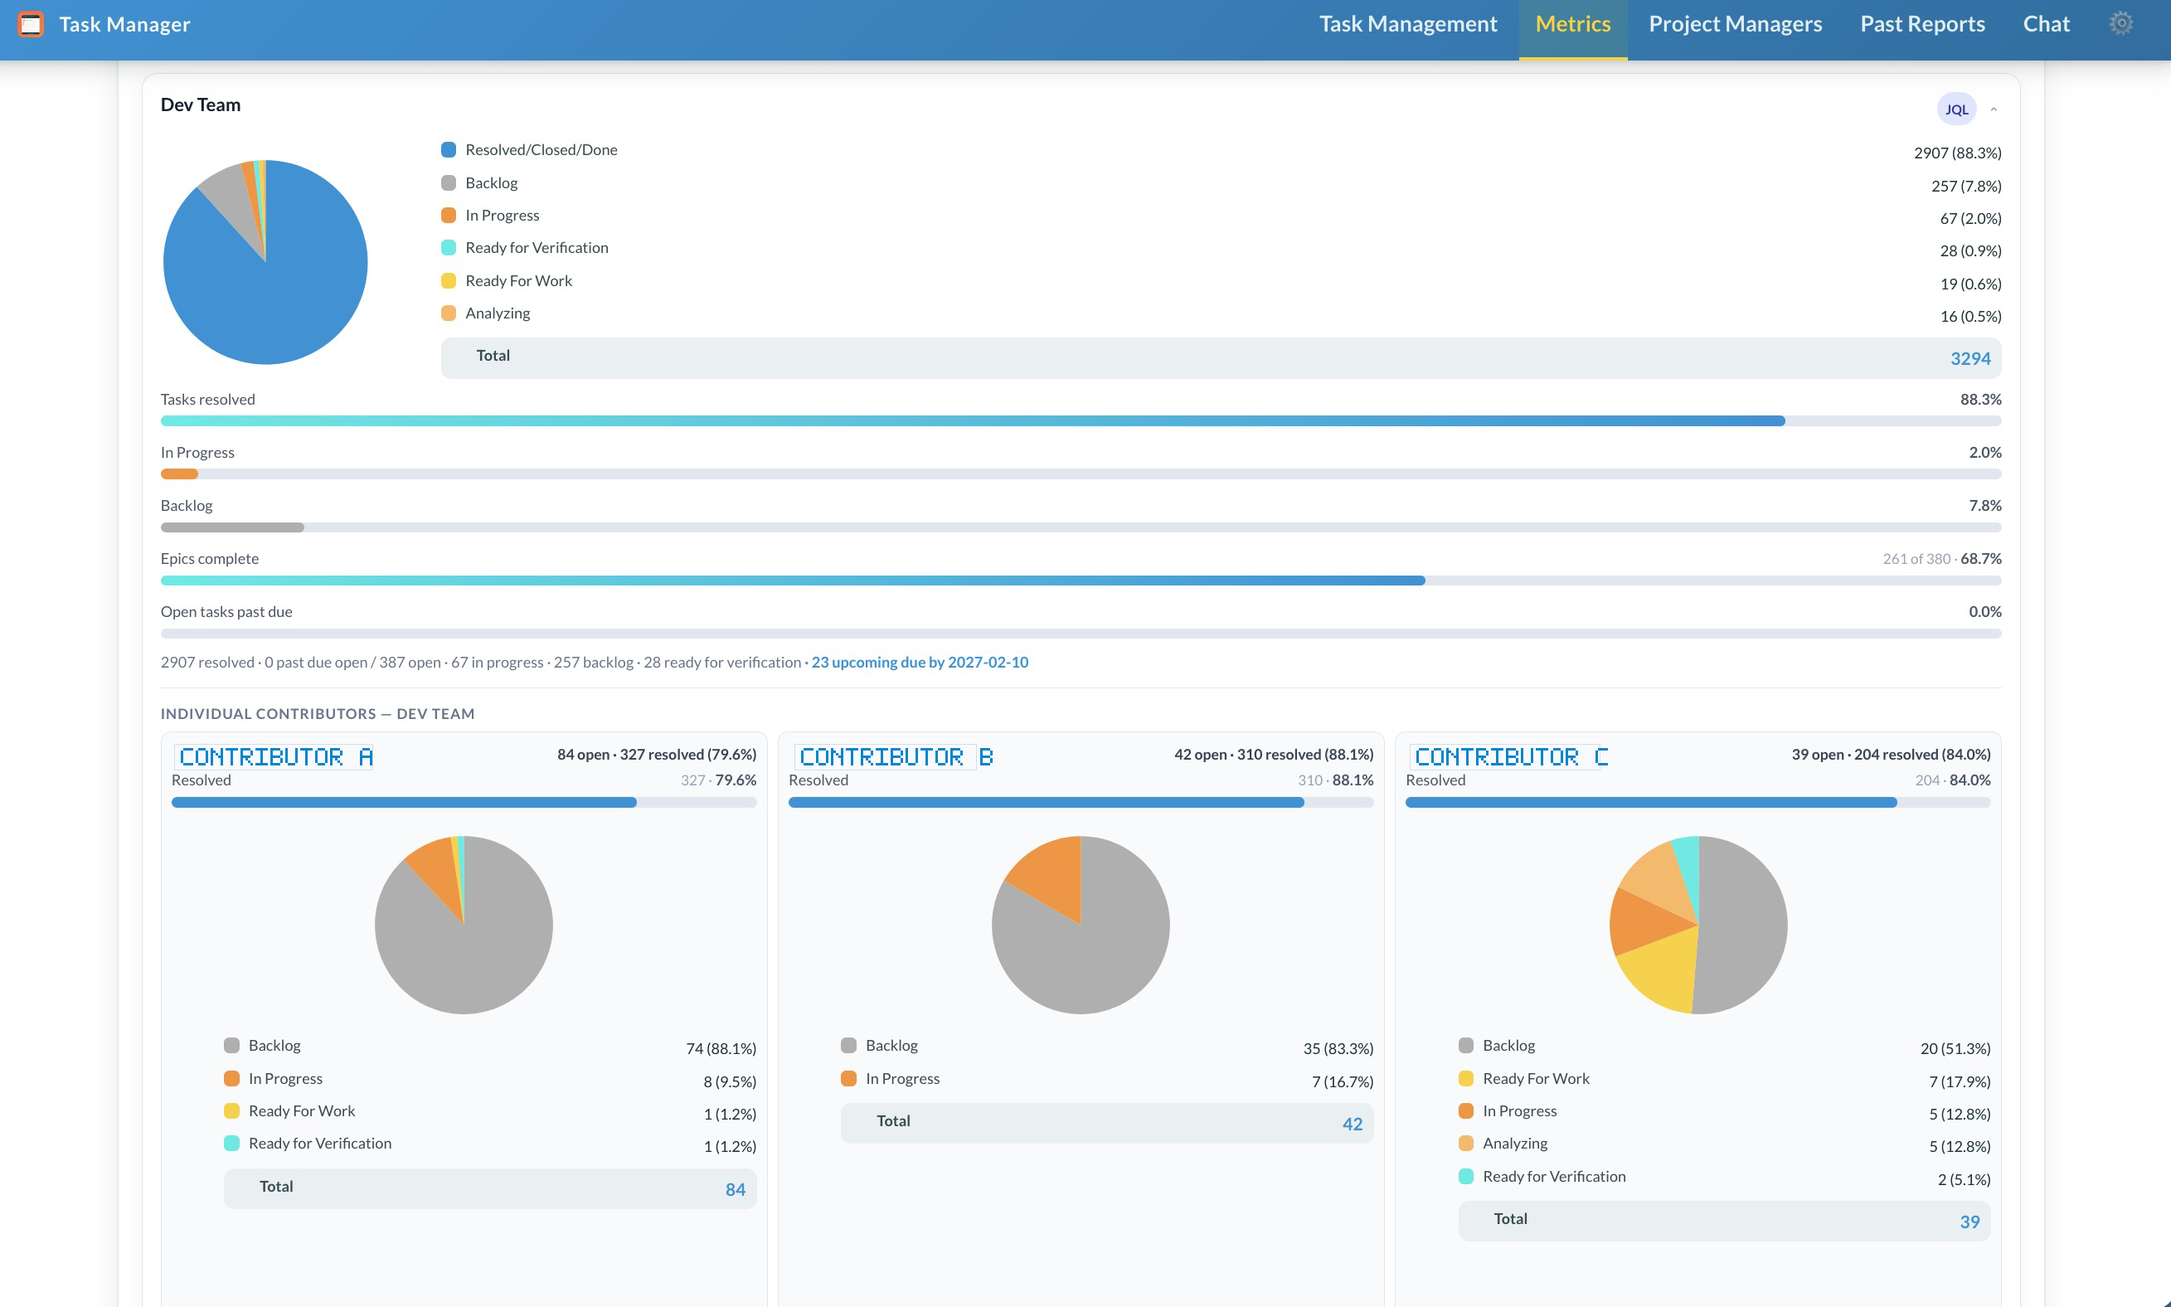
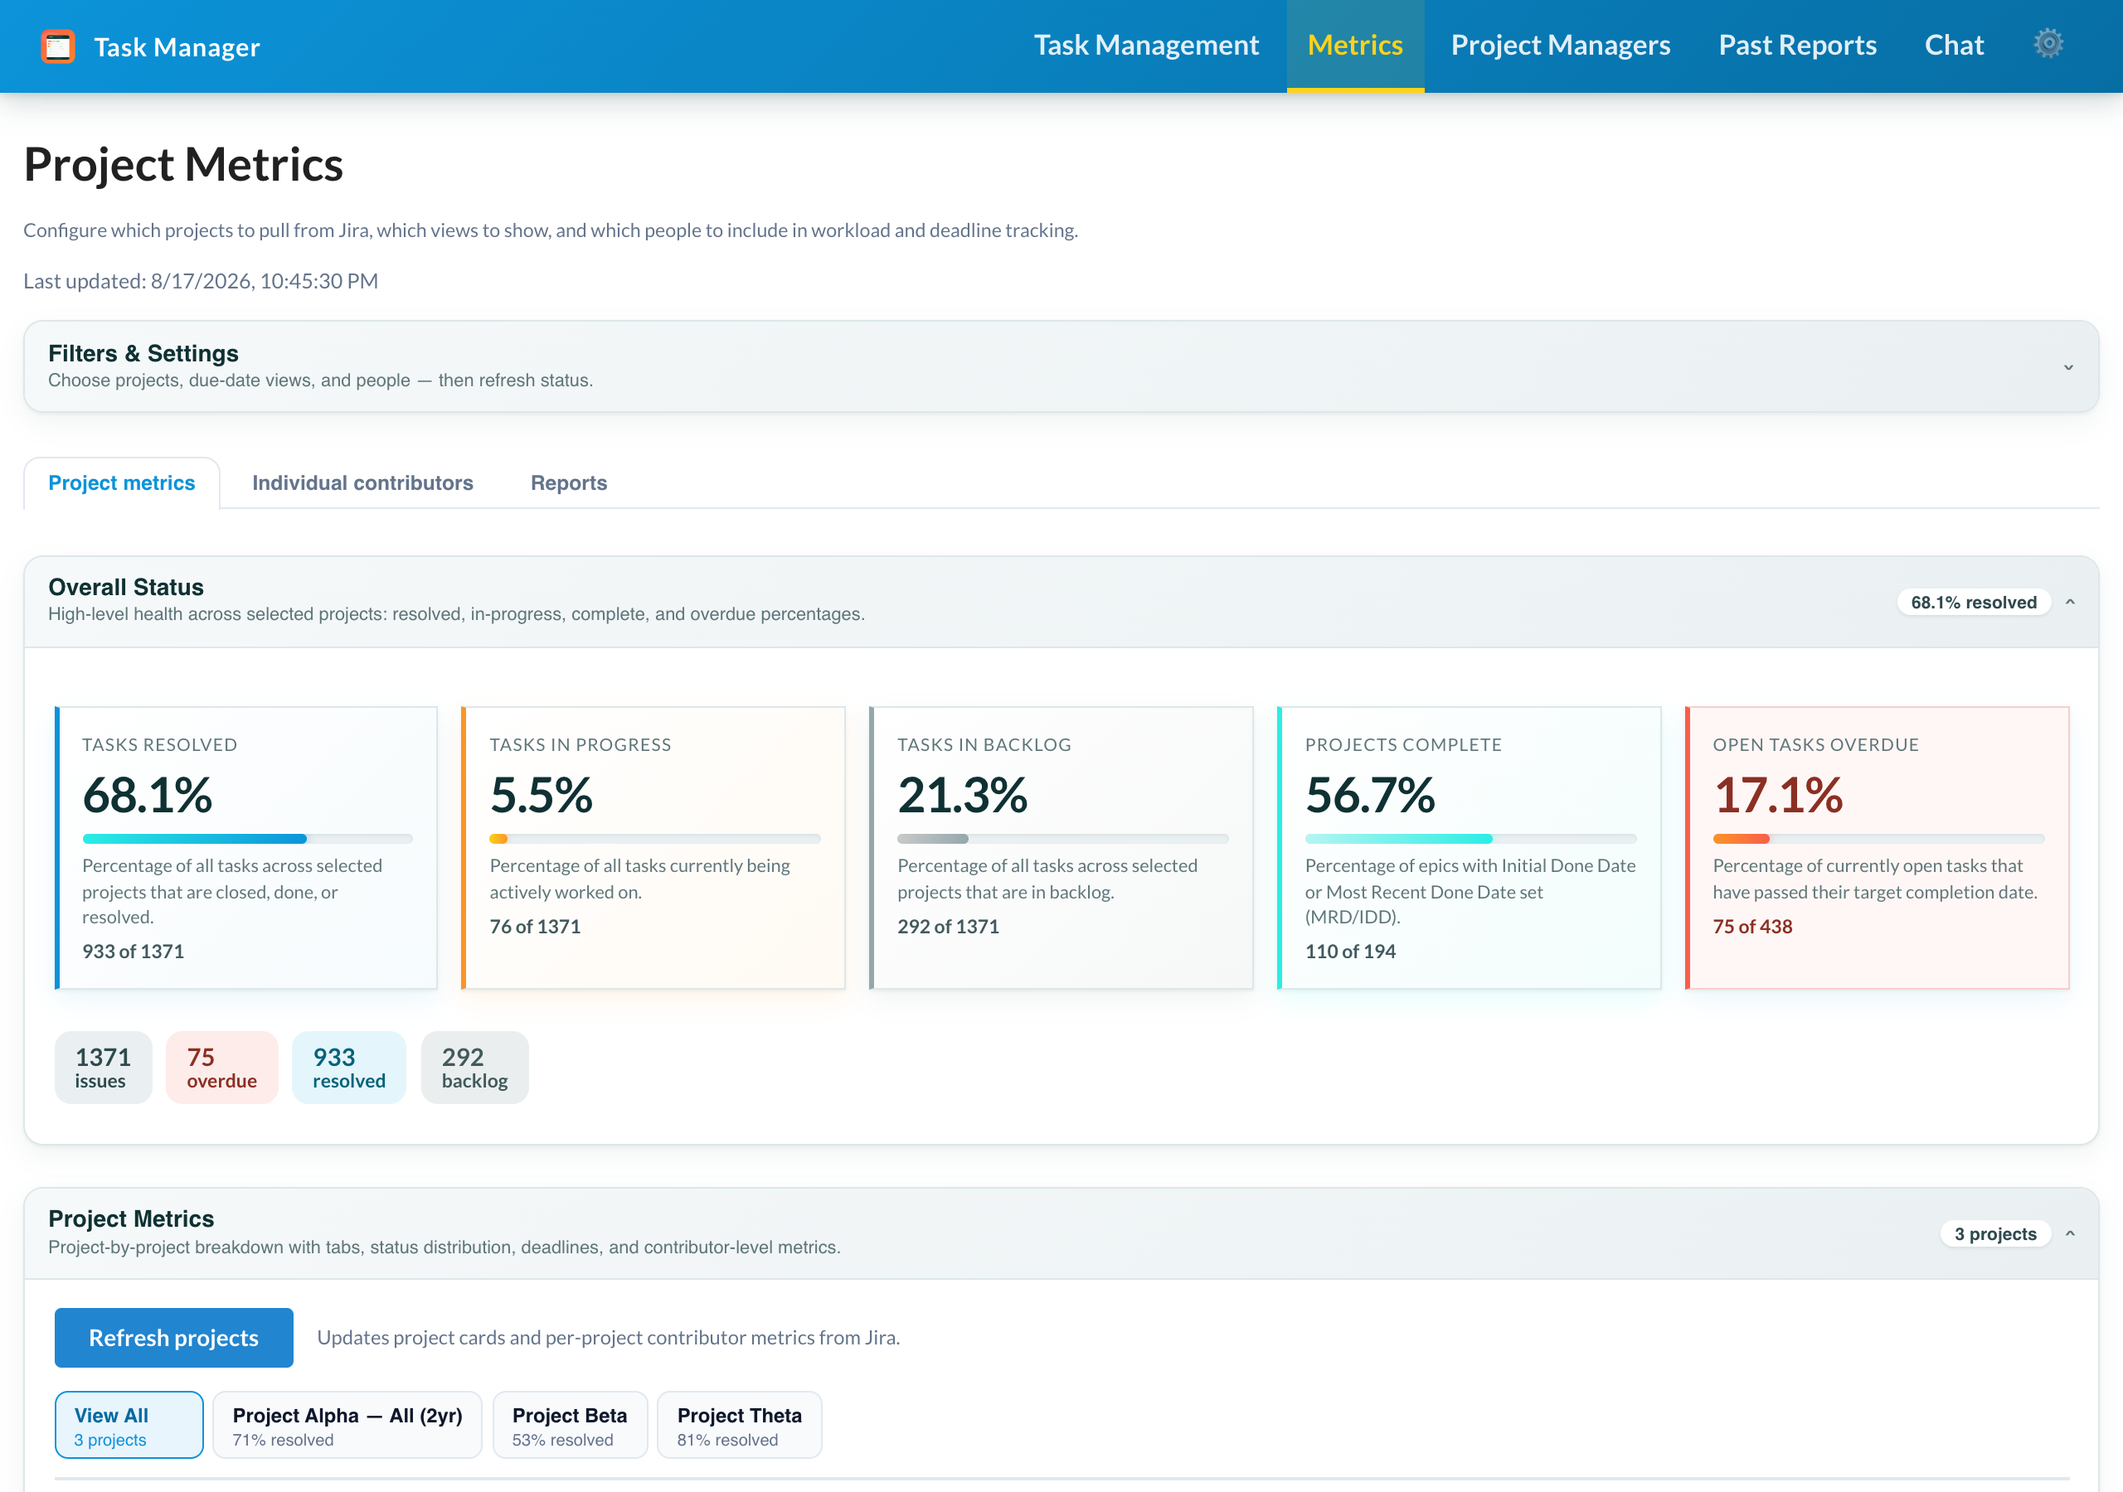
Bring docs up to date with the Metrics tab redesign
Both guides still described Metrics as one long scrolling page. Rewrote
the relevant sections to match the actual Project metrics / Individual
contributors / Reports tabs, including the two contributor sources that
now exist side by side (auto-derived from selected projects, no extra
click, vs. the chip-based "Layered in" roster that still needs its own
Refresh contributors).

Also fixed a real inaccuracy, not just staleness: the Generate Report
audience table listed "Product Owner Report" (three audiences) — the
actual label is "Project Manager Summary", and there's a fourth,
"Ad-hoc team report," missing from both docs entirely. Confirmed against
AUDIENCE_OPTIONS/AUDIENCE_CONFIGS in the frontend and server before fixing.

Regenerated the two README screenshots that visibly showed the old
layout (readme-metrics.png even displayed the stale "Open tasks past due
0.0%" bug fixed earlier this session) — same approach as the overview
doc: real screenshots of the live app, redacted before capture via a
headless-browser script, not the placeholder text they'd shown before.

diff --git a/docs/END_USER_GUIDE.md b/docs/END_USER_GUIDE.md
@@ -271,11 +271,13 @@ Use Metrics when you want to see how a whole project (or several) is tracking, n
 
 1. **Select projects** — pick one or more Epic & JQL presets from the panel at the top (add or edit them in Settings → **Epic & JQL presets**)
 2. **Optional due-date views** — set an upcoming window, past-due lookback, and which date field to compare against (see below)
-3. **Contributor Metrics** — add people or custom queries to track in the **Individual Contributor Metrics** section (saved entries from Settings → **Contributor Metrics**, or type a display name directly)
-4. **Choose views** — under **Views**, check which dashboard sections you want visible (including separate toggles for upcoming vs past-due due-date cards)
+3. **Contributor Metrics** *(optional)* — add people or custom queries to layer in on the **Individual contributors** tab (saved entries from Settings → **Contributor Metrics**, or type a display name directly). Not required — that tab already shows everyone from your selected projects with no extra setup; see [Individual contributors](#individual-contributors) below
+4. **Choose views** — under **Views**, check which sections you want visible on the **Project metrics** tab (including separate toggles for upcoming vs past-due due-date cards)
 5. Click **Refresh status** — the app pulls metrics from Jira and stores them
 
 The stored snapshot stays until you click **Refresh status** again. The page loads from the last snapshot even if Jira is slow. You can navigate away while refresh runs — watch the top nav for **Refreshing dashboard** and return when it finishes.
+
+The page itself is split into three tabs — **Project metrics**, **Individual contributors**, and **Reports** — all reading from the same snapshot, so one **Refresh status** updates all three.
 
 ### Jump to Task Management from Metrics
 
@@ -305,12 +307,12 @@ These filters are optional. **Refresh status** always updates resolution, worklo
 
 > **Tip:** Upcoming lists show only future due dates. Past-due rows appear in a separate card only when **Past Due Projects** is enabled.
 
-### Sections (all collapsible)
+### Project metrics
 
-Toggle each section under **Views** in Filters & Settings. Open/closed state is remembered per section.
+The default tab. Sections below are individually collapsible; toggle which ones appear under **Views** in Filters & Settings. Open/closed state is remembered per section.
 
 **Overall Status**  
-Summary cards — % tasks resolved, % in progress, % in backlog, % projects complete (epics with MRD/IDD set, including epics discovered inside JQL presets), and % open tasks overdue. Below the cards, count chips show total issues, overdue, resolved, and backlog at a glance.
+Summary cards — % tasks resolved, % in progress, % in backlog, % projects complete (epics with MRD/IDD set, including epics discovered inside JQL presets), and % open tasks overdue. Below the cards, count chips show total issues, overdue, resolved, and backlog at a glance. Shows for a single selected project too, scoped to just that project — not only when "View All" is active.
 
 **Project Metrics**  
 One card per epic/JQL preset showing:
@@ -319,6 +321,7 @@ One card per epic/JQL preset showing:
 - Status breakdown (pie or bar chart — toggle under **Chart style**)
 - Deadline dates (Initial Done Date, Most Recent Done Date, Project End Date) on epic presets
 - Past due badge when a deadline has been missed (when Past Due Projects is enabled)
+- Its own **Individual contributors — [project]** breakdown, scoped to just that project's issues
 
 **Upcoming Due Dates** *(optional)*  
 Blue-accent card listing open tasks with due dates from **today through** your selected upcoming cutoff, grouped by project → person. Each row shows issue type (Task, Epic, etc.), key, summary, and due date. Period summary chips break counts down by week or month.
@@ -326,12 +329,22 @@ Blue-accent card listing open tasks with due dates from **today through** your s
 **Past Due in lookback** *(optional)*  
 Coral-accent card listing open tasks that missed their deadline within the selected lookback (1–3 years). Populated only when **Past Due Projects** is enabled. Empty state explains how to enable it.
 
-**Individual Contributor Metrics**  
-One card per person or custom query configured in Settings → **Contributor Metrics** (or names you add directly in the Metrics filter panel). The section appears as soon as people are selected — click **Refresh status** to load metrics. After refresh: open workload, overdue count, and status breakdown per person. Person names link to Task Management with an assignee drill-down.
+### Individual contributors
+
+Two panels, stacked — different sources, different scope:
+
+**From your selected projects**  
+Auto-derived from whatever's picked in **Select projects** above — no separate roster to pick, and no extra refresh click; it reads from the same snapshot **Refresh status** already pulled. Each person gets a compact row: name (links to Task Management filtered to them), then open/resolved/overdue counts. This is each person's work on *just these projects* — not their full Jira workload, so it can read lower than their real total if they also work outside your selected presets.
+
+**Layered in — people, custom queries, and My Direct Reports**  
+The chip-based roster from Settings → **Contributor Metrics** (or names typed directly in the Metrics filter panel), for rosters that span multiple projects or aren't covered by your project selection. Needs its own **Refresh contributors** click — it's a separate Jira query, not read from the Project Metrics snapshot. After refresh, each card shows a full pie/bar status breakdown, past-due and upcoming-due lists, and:
 
 - **Person watches** — full Jira assignee workload (`assignee = "…"` search), not limited to the projects selected in step 1.
 - **Custom query watches** — metrics come from the watch JQL as written (same scope you defined in Settings).
-- **Per-project contributor rows** on Project Metrics cards — only issues within that epic/preset (Jane’s 5 tasks in Epic A, not her 10 elsewhere).
+
+The two panels can overlap — a person auto-derived from your projects may also appear layered in with a different (larger) total. That's expected; each source keeps its own numbers.
+
+### Reports
 
 **Generate Report**  
 Choose an audience and click Generate:
@@ -339,12 +352,13 @@ Choose an audience and click Generate:
 | Audience | Written for |
 |----------|------------|
 | Executive Summary | Senior leadership — highlights, risks, action items |
-| Product Owner Report | Feature delivery, backlog health, blockers |
-| Developer Report | Team workload, overdue by person, WIP |
+| Project Manager Summary | Deadline realism, stakeholder impact, delay risks, stand-up summaries, and closeout reports |
+| Developer Report | Team workload and WIP, plus a full status breakdown per contributor (not just overdue) — pulled from whichever projects are selected above, same as the Individual contributors tab |
+| Ad-hoc team report | A manager's direct reports specifically — uses Settings → **My Direct Reports**, not the project presets selected above. Select those chips under Contributor Metrics and **Refresh contributors** first |
 
-Reports include an optional status chart when Metrics data supports it. Use **Copy**, **Download .md**, or **Clear report** (removes the report from this page only — archived copies remain in **Past Reports**). Generation continues in the background if you leave the page.
+Project-scoped audiences (Executive Summary, Project Manager Summary, Developer Report) can report on one project or several — use the project tabs above the audience cards to pick. Reports include an optional status chart when Metrics data supports it. Use **Copy**, **Download .md**, or **Clear report** (removes the report from this page only — archived copies remain in **Past Reports**). Generation continues in the background if you leave the page.
 
-**Weekly digest** (same section, below the LLM reports)  
+**Weekly digest** (same tab, below the LLM reports)  
 Snapshot-based stand-up brief — overdue/upcoming highlights, contributor load, and project health. **No LLM required.** Click **Generate weekly digest** after a Metrics refresh, then copy, download, or **Clear report**.
 
 ---

diff --git a/docs/DEVELOPER_GUIDE.md b/docs/DEVELOPER_GUIDE.md
@@ -119,7 +119,7 @@ taskManager/
 │   │   ├── Dashboard/              # Dashboard feature (index.jsx, hooks, components)
 │   │   │   ├── index.jsx
 │   │   │   ├── hooks/              # useDashboardRefresh, useReportGeneration
-│   │   │   ├── components/         # filters, due-date lists, epic cards, WeeklyDigestPanel
+│   │   │   ├── components/         # DashboardTabs, filters, due-date lists, epic cards, IndividualContributorsPanel, ContributorStatusBar, WeeklyDigestPanel
 │   │   │   └── utils/              # dashboardMetricsUtils (presets, splitDueByIssues)
 │   │   ├── Dashboard.jsx           # Re-exports Dashboard/index
 │   │   ├── Settings/               # Settings feature folder
@@ -244,7 +244,7 @@ Notable snapshot fields used by the UI and Chat context:
 
 **`app_settings`** — key-value store for `epic_past_due_mode`, `proxy_url`, `chat_custom_instructions`
 
-**`watched_assignees`** — saved people and custom queries for the Dashboard Individual Contributor Metrics section
+**`watched_assignees`** — saved people and custom queries for the Individual contributors tab's "Layered in" panel (not the auto-derived "From your selected projects" panel, which has no dedicated table — it's computed from epic `contributorMetrics` at read time)
 
 | Column | Notes |
 |--------|-------|
@@ -306,9 +306,11 @@ These are mapped in Settings → Jira field mapping and synced via `POST /api/ji
 1. **`parseRefreshInput.mjs`** — validates preset IDs, `dueByDate`, `dueByField`, `includePastDue`, `pastDueLookbackYears` (1/2/3 only)
 2. **`buildRefreshContext.mjs`** — resolves field IDs, `dueByCompareFieldId`, `pastDueFloor`, and `dueByOptions` (including `epicIssue` when computing per-epic child metrics)
 3. **`buildEpicMetrics.mjs`** — Jira search per preset; `computeChildIssueMetrics` + `buildEpicLevelDueByIssues` for due-date lists; per-epic `contributorMetrics` stay scoped to that preset’s issues
-4. **`buildAssigneeMetrics.mjs`** — Individual Contributor Metrics cards: **person** watches run `assignee = "…"` JQL (full assignee workload); **JQL** watches use the saved query without intersecting preset scope
+4. **`buildAssigneeMetrics.mjs`** — the **Individual contributors** tab's "Layered in" panel: **person** watches run `assignee = "…"` JQL (full assignee workload); **JQL** watches use the saved query without intersecting preset scope. This is a separate Jira round-trip from step 3, which is why it needs its own **Refresh contributors** click rather than riding the main snapshot refresh
 5. **`collectDueByIssues.mjs`** — merges epic-level due-by rows into snapshot flat list (capped at 200)
 6. **`persistSnapshot.mjs`** — writes `dashboard_snapshots` and related metric rows
+
+**Client-side rollup:** the **Individual contributors** tab's "From your selected projects" panel does *not* call `buildAssigneeMetrics.mjs` — it's `rollupEpicContributorPeople()` in `dashboardMetricsUtils.js`, summing the per-epic `contributorMetrics` from step 3 (already in the snapshot) across whichever presets are selected. No extra request, no separate refresh; it's stale only when the main snapshot is. `IndividualContributorsPanel.jsx` renders both panels side by side; `ContributorStatusBar.jsx` renders each auto-derived row.
 
 ### Due-date resolution (`shared/dashboardMetrics.mjs`)
 
@@ -460,16 +462,16 @@ UI: `ReportArchive.jsx` — three tabs, list + `ReportOutput` viewer. Dashboard 
 
 ### Dashboard UI section toggles
 
-Persisted in `localStorage` key `dashboard-visible-sections` via `normalizeVisibleSections()` in `dashboardMetricsUtils.js`:
+Persisted in `localStorage` key `dashboard-visible-sections` via `normalizeVisibleSections()` in `dashboardMetricsUtils.js`. `activeDashboardTab` (separate state, `DashboardTabs.jsx`) controls which of the three tabs — **project** / **people** / **reports** — is currently shown; `visibleSections` controls whether that tab's content renders at all versus a "turned off — enable it under Filters → Views" message (`Dashboard/index.jsx`). The first four keys gate individual `CollapsibleSection`s within the **project** tab; `overdue` and `report` gate an entire tab's content each:
 
-| Key | Section |
-|-----|---------|
-| `overall` | Overall Status |
-| `epicMetrics` | Project Metrics |
-| `dueByUpcoming` | Upcoming Due Dates card |
-| `dueByPastDue` | Past Due in lookback card |
-| `overdue` | Individual Contributor Metrics |
-| `report` | Generate Report |
+| Key | Section | Tab |
+|-----|---------|-----|
+| `overall` | Overall Status | project |
+| `epicMetrics` | Project Metrics | project |
+| `dueByUpcoming` | Upcoming Due Dates card | project |
+| `dueByPastDue` | Past Due in lookback card | project |
+| `overdue` | Individual contributors (both panels) | people |
+| `report` | Reports (Generate Report + Weekly digest) | reports |
 
 Legacy `dueBy` key migrates to both `dueByUpcoming` and `dueByPastDue`.
 
@@ -541,10 +543,11 @@ All routes mounted by `server/jiraProxy.mjs`.
 Written **from the assignee's perspective**, second person ("you have", "your open items"). Tone: supportive colleague, not manager status update. Covers: overall tracking %, key open items, overdue concerns, recommended next steps. Flowing prose, no bullet lists.
 
 ### `/api/report/generate` (Dashboard — Generate Report)
-Three audience variants stored in `reportRoutes.mjs`:
-- **Executive** — highlights, risks, action items for leadership
-- **Product Owner** — feature delivery, backlog health, blockers, upcoming priorities
-- **Developer** — team workload, overdue by person, WIP, upcoming tasks
+Four audience variants — `AUDIENCE_CONFIGS` in `server/lib/aiInstructions.mjs`, keyed by `audience` in the request body (`AUDIENCE_OPTIONS` in `useReportGeneration.js` is the frontend mirror):
+- **`executive`** — Executive Summary: highlights, risks, action items for leadership
+- **`product_owner`** — Project Manager Summary: deadline realism, stakeholder impact, delay risks, stand-up summaries, closeout reports (key kept as `product_owner` for backward compatibility; the label was renamed)
+- **`developer`** — Developer Report: team workload and WIP, plus a full per-contributor status breakdown (`rollupEpicContributorPeople` + `ContributorStatusBar`, not just overdue counts)
+- **`direct_reports`** — Ad-hoc team report: `isAdhocTeamReport` in `reportRoutes.mjs`; scoped to Settings → My Direct Reports rather than the selected project presets
 
 ### `/api/plan/week` (Work Week — Help me plan my week)
 Day-by-day Monday–Friday plan using actual issue keys from the loaded JQL runs. Respects `focusStyle` (balance / overdue-first / single-project / meeting-heavy), `capacityHours`, `fixedCommitments`, and `additionalContext`. Flags overdue items with ⚠.
